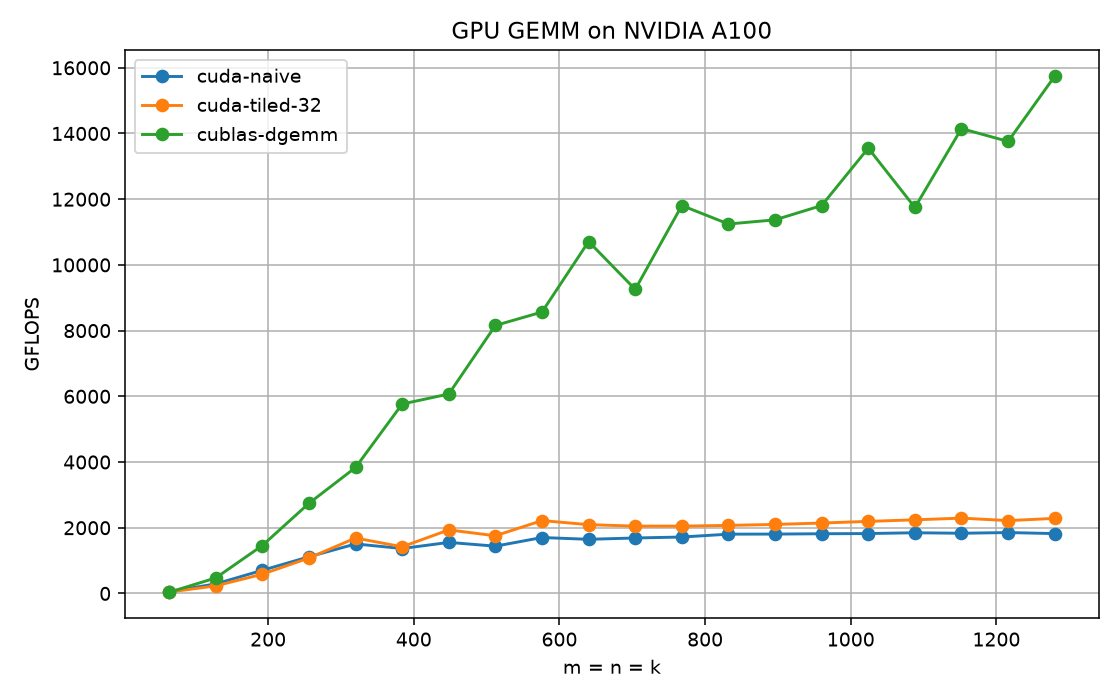
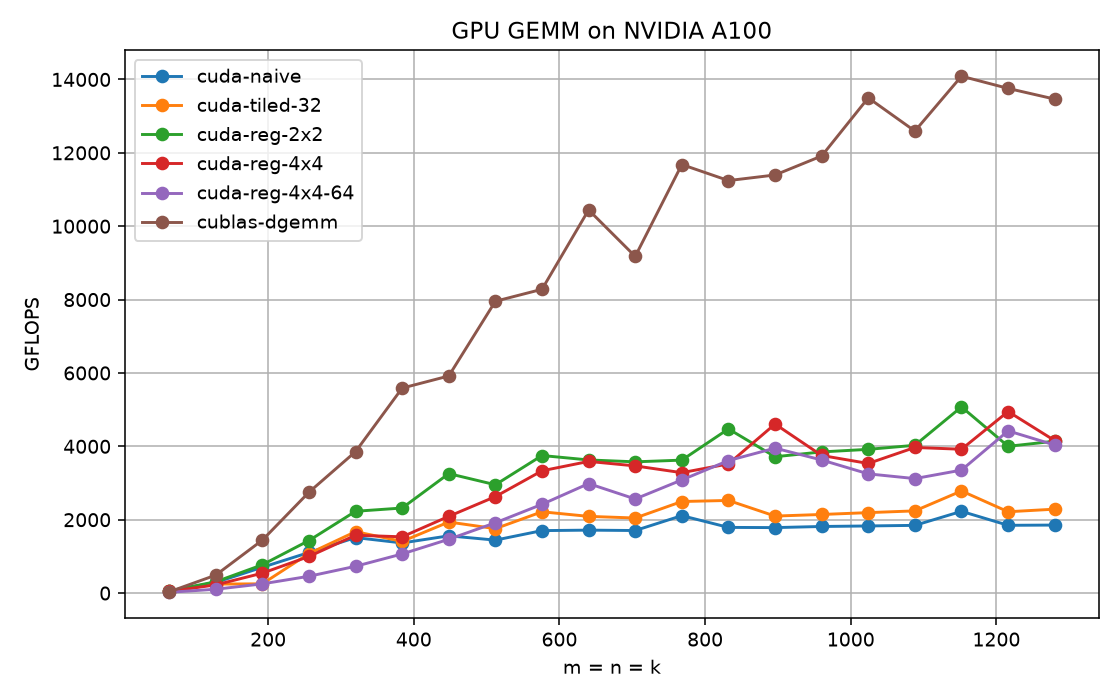
增加 CUDA GEMM 寄存器分块优化

diff --git a/fig-gpu/gpu_results.m b/fig-gpu/gpu_results.m
@@ -1,70 +1,139 @@
 # GPU: NVIDIA A100-SXM4-80GB, compute capability 8.0, 79.3 GiB
 version = 'cuda-naive';
 MY_MMult = [
-64 5.712692e+01 3.552714e-15
-128 2.894700e+02 5.329071e-15
-192 7.044077e+02 7.993606e-15
-256 1.115269e+03 1.065814e-14
-320 1.506547e+03 1.598721e-14
-384 1.367127e+03 1.421085e-14
-448 1.553608e+03 1.598721e-14
-512 1.438672e+03 1.776357e-14
-576 1.701803e+03 2.131628e-14
-640 1.647693e+03 2.842171e-14
-704 1.687987e+03 2.486900e-14
-768 1.717080e+03 2.486900e-14
-832 1.804384e+03 2.842171e-14
-896 1.806793e+03 2.930989e-14
-960 1.816868e+03 3.552714e-14
-1024 1.822798e+03 3.552714e-14
-1088 1.846969e+03 3.552714e-14
-1152 1.831969e+03 3.552714e-14
-1216 1.853429e+03 3.907985e-14
-1280 1.821542e+03 3.552714e-14
+64 5.700765e+01 3.552714e-15
+128 2.899823e+02 5.329071e-15
+192 7.035115e+02 7.993606e-15
+256 1.106560e+03 1.065814e-14
+320 1.512555e+03 1.598721e-14
+384 1.366599e+03 1.421085e-14
+448 1.560771e+03 1.598721e-14
+512 1.443723e+03 1.776357e-14
+576 1.702919e+03 2.131628e-14
+640 1.715890e+03 2.842171e-14
+704 1.705225e+03 2.486900e-14
+768 2.111195e+03 2.486900e-14
+832 1.790436e+03 2.842171e-14
+896 1.785056e+03 2.930989e-14
+960 1.815353e+03 3.552714e-14
+1024 1.829936e+03 3.552714e-14
+1088 1.846003e+03 3.552714e-14
+1152 2.228419e+03 3.552714e-14
+1216 1.847396e+03 3.907985e-14
+1280 1.854060e+03 3.552714e-14
 ];
 version = 'cuda-tiled-32';
 MY_MMult = [
-64 4.224858e+01 3.552714e-15
-128 2.306793e+02 5.329071e-15
-192 5.857627e+02 7.993606e-15
-256 1.078782e+03 1.065814e-14
-320 1.686707e+03 1.598721e-14
-384 1.419666e+03 1.421085e-14
-448 1.934097e+03 1.598721e-14
-512 1.755527e+03 1.776357e-14
-576 2.217672e+03 2.131628e-14
-640 2.093374e+03 2.842171e-14
-704 2.049309e+03 2.486900e-14
-768 2.048800e+03 2.486900e-14
-832 2.071358e+03 2.842171e-14
-896 2.100179e+03 2.930989e-14
-960 2.142757e+03 3.552714e-14
-1024 2.193344e+03 3.552714e-14
-1088 2.240654e+03 3.552714e-14
-1152 2.292315e+03 3.552714e-14
-1216 2.217444e+03 3.907985e-14
-1280 2.284463e+03 3.552714e-14
+64 4.796253e+01 3.552714e-15
+128 2.451777e+02 5.329071e-15
+192 2.522628e+02 7.993606e-15
+256 1.077895e+03 1.065814e-14
+320 1.674297e+03 1.598721e-14
+384 1.409040e+03 1.421085e-14
+448 1.937164e+03 1.598721e-14
+512 1.756115e+03 1.776357e-14
+576 2.216108e+03 2.131628e-14
+640 2.091023e+03 2.842171e-14
+704 2.046155e+03 2.486900e-14
+768 2.496125e+03 2.486900e-14
+832 2.525089e+03 2.842171e-14
+896 2.099120e+03 2.930989e-14
+960 2.142691e+03 3.552714e-14
+1024 2.193028e+03 3.552714e-14
+1088 2.240791e+03 3.552714e-14
+1152 2.783972e+03 3.552714e-14
+1216 2.217033e+03 3.907985e-14
+1280 2.287366e+03 3.552714e-14
+];
+version = 'cuda-reg-2x2';
+MY_MMult = [
+64 5.692842e+01 3.552714e-15
+128 3.091321e+02 5.329071e-15
+192 7.709446e+02 7.993606e-15
+256 1.432090e+03 1.065814e-14
+320 2.229965e+03 1.598721e-14
+384 2.318794e+03 1.421085e-14
+448 3.256671e+03 1.598721e-14
+512 2.952695e+03 1.776357e-14
+576 3.749587e+03 2.131628e-14
+640 3.628954e+03 2.842171e-14
+704 3.577750e+03 2.486900e-14
+768 3.624018e+03 2.486900e-14
+832 4.475178e+03 2.842171e-14
+896 3.716188e+03 2.930989e-14
+960 3.848177e+03 3.552714e-14
+1024 3.917988e+03 3.552714e-14
+1088 4.028476e+03 3.552714e-14
+1152 5.074914e+03 3.552714e-14
+1216 4.000892e+03 3.907985e-14
+1280 4.139752e+03 3.552714e-14
+];
+version = 'cuda-reg-4x4';
+MY_MMult = [
+64 4.568879e+01 3.552714e-15
+128 2.240547e+02 5.329071e-15
+192 5.431827e+02 7.993606e-15
+256 9.973140e+02 1.065814e-14
+320 1.576840e+03 1.598721e-14
+384 1.533737e+03 1.421085e-14
+448 2.091600e+03 1.598721e-14
+512 2.629823e+03 1.776357e-14
+576 3.332943e+03 2.131628e-14
+640 3.588733e+03 2.842171e-14
+704 3.466618e+03 2.486900e-14
+768 3.281966e+03 2.486900e-14
+832 3.520494e+03 2.842171e-14
+896 4.607738e+03 2.930989e-14
+960 3.750865e+03 3.552714e-14
+1024 3.533013e+03 3.552714e-14
+1088 3.969240e+03 3.552714e-14
+1152 3.920640e+03 3.552714e-14
+1216 4.948997e+03 3.907985e-14
+1280 4.155502e+03 3.552714e-14
+];
+version = 'cuda-reg-4x4-64';
+MY_MMult = [
+64 2.176986e+01 3.552714e-15
+128 1.045732e+02 5.329071e-15
+192 2.513455e+02 7.993606e-15
+256 4.584540e+02 1.065814e-14
+320 7.303852e+02 1.598721e-14
+384 1.066911e+03 1.421085e-14
+448 1.467364e+03 1.598721e-14
+512 1.916432e+03 1.776357e-14
+576 2.419074e+03 2.131628e-14
+640 2.984444e+03 2.842171e-14
+704 2.565180e+03 2.486900e-14
+768 3.084114e+03 2.486900e-14
+832 3.611628e+03 2.842171e-14
+896 3.950866e+03 2.930989e-14
+960 3.627870e+03 3.552714e-14
+1024 3.249509e+03 3.552714e-14
+1088 3.120768e+03 3.552714e-14
+1152 3.352284e+03 3.552714e-14
+1216 4.421575e+03 3.907985e-14
+1280 4.035866e+03 3.552714e-14
 ];
 version = 'cublas-dgemm';
 MY_MMult = [
-64 3.493390e+01 5.329071e-15
-128 4.718215e+02 5.329071e-15
-192 1.458997e+03 7.993606e-15
-256 2.743527e+03 1.065814e-14
-320 3.833770e+03 1.598721e-14
-384 5.765630e+03 1.421085e-14
-448 6.070114e+03 1.598721e-14
-512 8.156951e+03 1.776357e-14
-576 8.565645e+03 2.131628e-14
-640 1.071130e+04 2.842171e-14
-704 9.255986e+03 2.486900e-14
-768 1.180730e+04 2.486900e-14
-832 1.124513e+04 1.350031e-13
-896 1.137191e+04 1.314504e-13
-960 1.180731e+04 1.492140e-13
-1024 1.355406e+04 3.552714e-14
-1088 1.174761e+04 1.350031e-13
-1152 1.414949e+04 1.563194e-13
-1216 1.375831e+04 1.563194e-13
-1280 1.574401e+04 1.492140e-13
+64 3.321979e+01 5.329071e-15
+128 4.894399e+02 5.329071e-15
+192 1.442818e+03 7.993606e-15
+256 2.749282e+03 1.065814e-14
+320 3.855422e+03 1.598721e-14
+384 5.587218e+03 1.421085e-14
+448 5.917978e+03 1.598721e-14
+512 7.954303e+03 1.776357e-14
+576 8.280599e+03 2.131628e-14
+640 1.044365e+04 2.842171e-14
+704 9.176529e+03 2.486900e-14
+768 1.168065e+04 2.486900e-14
+832 1.124372e+04 1.350031e-13
+896 1.139612e+04 1.314504e-13
+960 1.191365e+04 1.492140e-13
+1024 1.349844e+04 3.552714e-14
+1088 1.259302e+04 1.350031e-13
+1152 1.408857e+04 1.563194e-13
+1216 1.375561e+04 1.563194e-13
+1280 1.346427e+04 1.492140e-13
 ];
